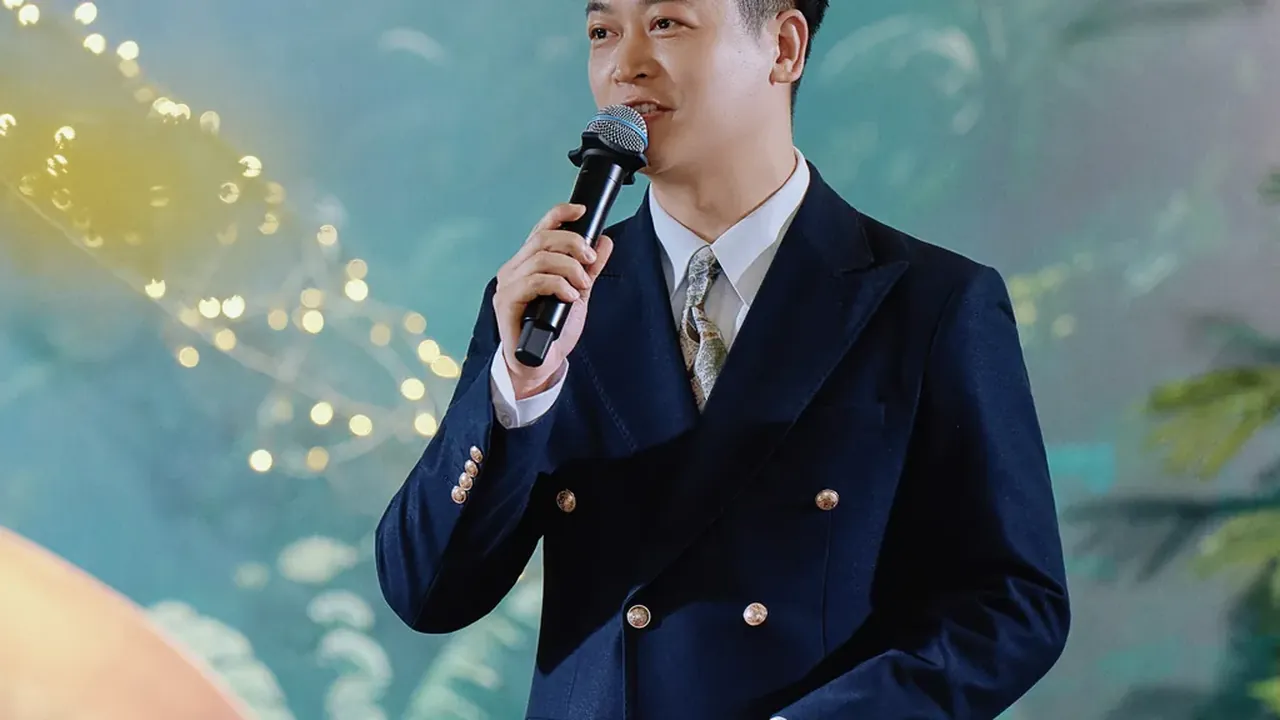
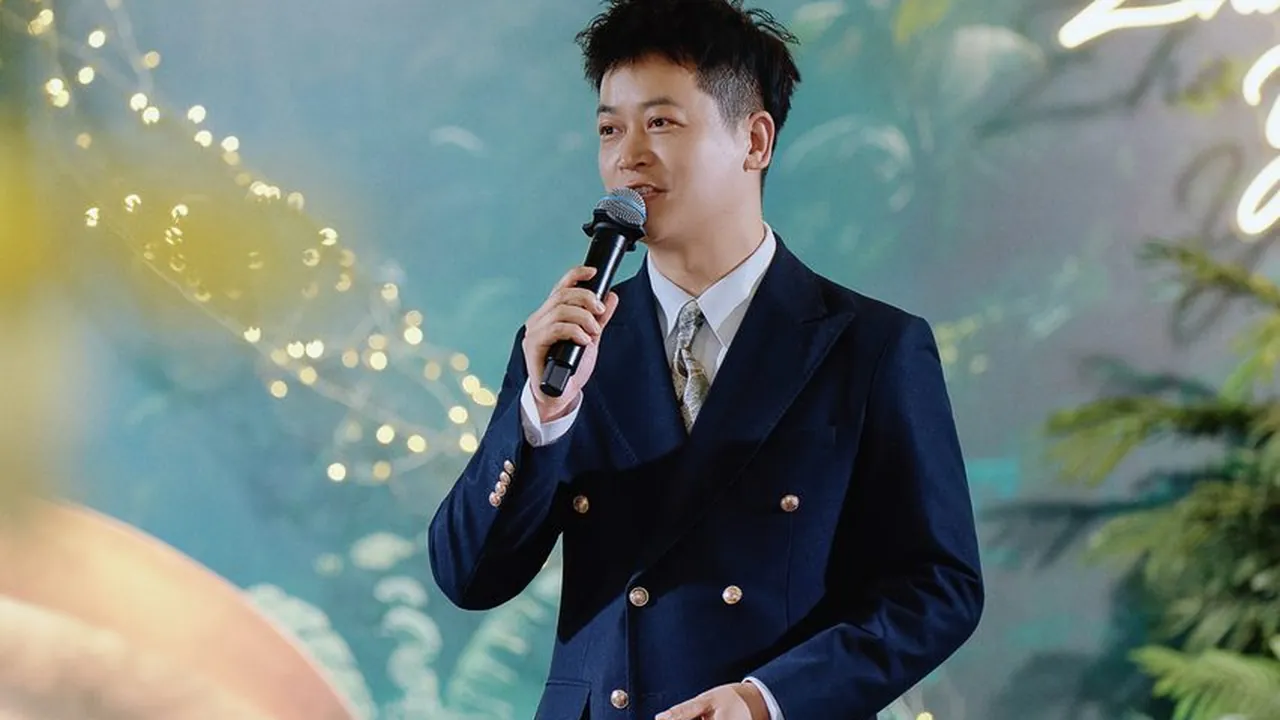
修复王欢头图头部截断、晓楠视频封面错图、晓楠首页卡人物放大；图片引用v=3升级v=4

diff --git a/host-wanghuan.html b/host-wanghuan.html
@@ -7,7 +7,7 @@
 <meta name="description" content="王欢——婚语平台成员，专业婚礼主持。">
 <meta property="og:title" content="王欢 · 赢享先生婚礼主持">
 <meta property="og:description" content="婚语平台成员，专业婚礼主持。">
-<meta property="og:image" content="https://cdn.jsdelivr.net/gh/YaNan-Ayn/yanan-host@main/images/wanghuan.webp?v=3">
+<meta property="og:image" content="https://cdn.jsdelivr.net/gh/YaNan-Ayn/yanan-host@main/images/wanghuan.webp?v=4">
 <meta property="og:url" content="https://yanan-ayn.github.io/yanan-host/host-wanghuan.html">
 <meta property="og:type" content="profile">
 <style>
@@ -214,7 +214,7 @@ body {
 </div>
 
 <!-- Hero Image -->
-<img class="hero-img" src="https://cdn.jsdelivr.net/gh/YaNan-Ayn/yanan-host@main/images/wanghuan.webp?v=3" alt="主持人王欢">
+<img class="hero-img" src="https://cdn.jsdelivr.net/gh/YaNan-Ayn/yanan-host@main/images/wanghuan.webp?v=4" alt="主持人王欢">
 
 <!-- Info -->
 <div class="info-section">

diff --git a/host-xiaonan.html b/host-xiaonan.html
@@ -276,7 +276,7 @@ body {
   <div class="section-title">视频作品</div>
   <div class="douyin-grid">
     <a class="douyin-card" href="https://weixin.qq.com/sph/AVPABNYqv" target="_blank" rel="noopener">
-      <img src="https://cdn.jsdelivr.net/gh/YaNan-Ayn/yanan-host@main/images/covers/xiaonan_1.webp?v=3" alt="抖音作品 1" loading="lazy">
+      <img src="https://cdn.jsdelivr.net/gh/YaNan-Ayn/yanan-host@main/images/covers/xiaonan_1.webp?v=4" alt="抖音作品 1" loading="lazy">
       <span class="douyin-play"></span>
     </a>
     <a class="douyin-card" href="https://weixin.qq.com/sph/Aj1Q9J9SH" target="_blank" rel="noopener">

diff --git a/index.html b/index.html
@@ -525,7 +525,7 @@ body {
     <!-- Host 3: 晓楠 -->
     <a class="host-card" href="host-xiaonan.html">
       <div class="host-photo">
-        <img fetchpriority="high" src="https://cdn.jsdelivr.net/gh/YaNan-Ayn/yanan-host@main/images/members/xiaonan/home.webp?v=3" alt="主持人晓楠" style="width:100%;height:100%;object-fit:cover;">
+        <img fetchpriority="high" src="https://cdn.jsdelivr.net/gh/YaNan-Ayn/yanan-host@main/images/members/xiaonan/home.webp?v=4" alt="主持人晓楠" style="width:100%;height:100%;object-fit:cover;">
       </div>
       <div class="host-info">
         <div class="host-name">晓楠</div>
